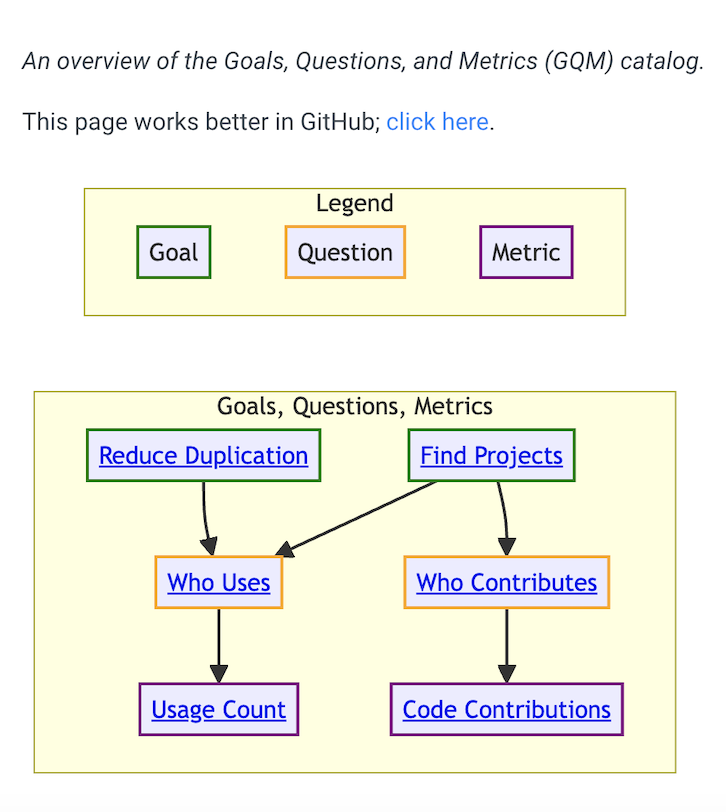
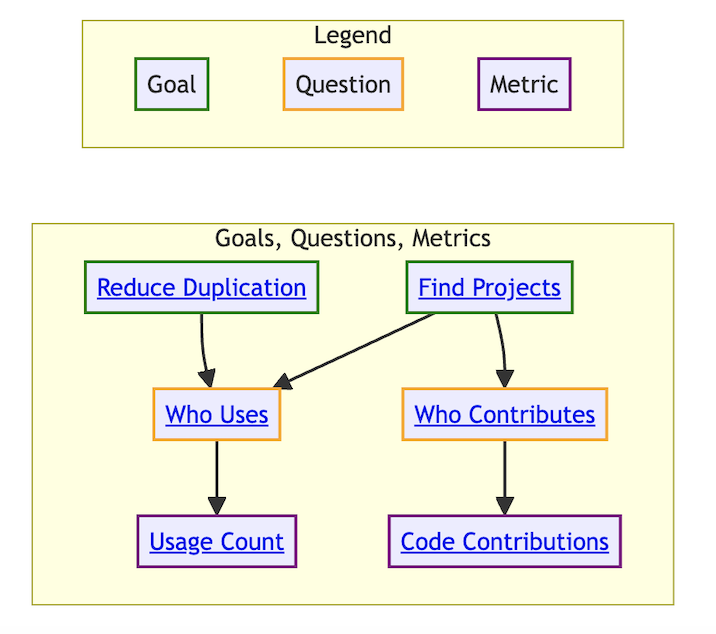
feat: increase font size chore: adjust content location

diff --git a/docs/slides/themes/isc.css b/docs/slides/themes/isc.css
@@ -14,7 +14,7 @@ theme       : ics
 
 :root {
     font-family: pt sans,sans-serif;
-    font-size: small;
+    font-size: large;
     --beamer-main: #000000;
     --beamer-secondary: #ffaa00;
 }

diff --git a/docs/slides/innersource-summit.md b/docs/slides/innersource-summit.md
@@ -170,7 +170,7 @@ We've built a graph of Goals, Questions, and Metrics to help you answer your sta
 ---
 <!--- Slide 13: Key Message --->
 
-How did I benefit from collecting these goals, questions, and metrics?
+How did I benefit from collecting goals, questions, and metrics?
 
 <!-- Slide 13: Key Message
 
@@ -186,20 +186,19 @@ Looking ahead, this experience isn't a one-time benefit. It's an investment in t
 
 <!--- Slide 14: Key Message --->
 
+![bg right:40%](../assets/managing-innersource-projects-cover.jpg)
+
 ## How the ISPO working group operates
 
-We deliver valuable reusable products inside our companies through collaborative efforts, accommodating participants' availability and interest.
+🚀 ***Progress over perfection*** — Even if a solution doesn't work for all companies, we'll still put it out there. We can iterate and add more to it later.
+🧩 ***Solve your challenges*** — Take the challenges that you are already solving and use this working group to get external feedback and sharing. We do not expect others to solve our challenges for us.
 
-* Website pages documenting patterns and methodologies
-* GitBooks
-
-![bg right:40%](../assets/managing-innersource-projects-cover.jpg)
 
 <!-- Slide 14: Key Message
 
-We contribute to the Managing InnerSource Projects Gitbook, InnerSource Patterns, and other projects relevant to leaders of ISPOs, OSPOs, and the like.
-
 Through conversations, ideation, and sharing our challenges, we work together to build peer-reviewed content fit for your organizations.
+
+We value progress over perfection, and encourage you to share your challenges and solutions with us.
 
 -->
 
@@ -234,14 +233,16 @@ You can attend each biweekly meeting, work asynchronously, or drop in when avail
 
 ![bg right 60%](../assets/ways-to-contribute.png)
 
-1. Kanban board _(GitHub)_
-2. Peer review _(GitHub)_
+1. Kanban board *(GitHub)*
+2. Peer review *(GitHub)*
 3. Focus on external products useful to others
    * Markdown books, website pages, and other things that can be linked to from inside company resources or ingested into them.
 
 <!-- Slide 16: Key Message
 
-All projects within the working group undergo peer review as they progress through the Kanban board
+All work within the working group undergos peer review as is progresses through the Kanban board. We align our work with the goals and objectives of our companies while also contributing to the InnerSource Commons.
+
+We contribute to the Managing InnerSource Projects Gitbook, InnerSource Patterns, and other projects relevant to leaders of ISPOs, OSPOs, and the like.
 
 -->
 
